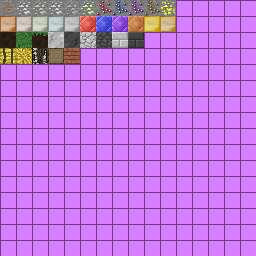
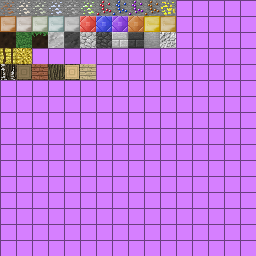
Adding blocks for trees and extras for 0.0.3.

Changed region(s): [[0.0, 0.1875, 0.375, 0.3125], [0.5625, 0.125, 0.6875, 0.1875]]

diff --git a/GNHRM/src/ModBlocks.java b/GNHRM/src/ModBlocks.java
@@ -59,8 +59,12 @@ public class ModBlocks extends Block
 	public static Block currantBranch;
 	public static Block blackberryBranch;
 	public static Block raspberryBranch;
-//	public static Block modWood;
-//	public static Block modPlanks;
+	public static Block cherryWood;
+	public static Block orangeWood;
+	public static Block cherryPlanks;
+	public static Block orangePlanks;
+	public static Block concrete;
+	public static Block granite;
 //	public static Block modSapling;
 //	public static Block modLeaves;
 //	public static Block stairBasalt;
@@ -100,8 +104,10 @@ public class ModBlocks extends Block
 		basaltCobble = new ModBlocks(38, Material.rock).setModCreativeTab().setHardness(2.5F).setResistance(10.0F).setStepSound(soundStoneFootstep).setBlockName("basaltCobble");
 		marble = new ModBlockCustomStone(35, marbleCobble.blockID).setModCreativeTab().setBlockName("marble");
 		basalt = new ModBlockCustomStone(36, basaltCobble.blockID).setModCreativeTab().setBlockName("basalt");
-		marbleBrick = new ModBlocks(39, Material.rock).setModCreativeTab().setHardness(2.0F).setResistance(10.0F).setStepSound(soundStoneFootstep).setBlockName("marbleBrick");
-		basaltBrick = new ModBlocks(40, Material.rock).setModCreativeTab().setHardness(2.0F).setResistance(10.0F).setStepSound(soundStoneFootstep).setBlockName("basaltBrick");
+		marbleBrick = new ModBlocks(39, Material.rock).setModCreativeTab().setHardness(3.0F).setResistance(10.0F).setStepSound(soundStoneFootstep).setBlockName("marbleBrick");
+		basaltBrick = new ModBlocks(40, Material.rock).setModCreativeTab().setHardness(3.0F).setResistance(10.0F).setStepSound(soundStoneFootstep).setBlockName("basaltBrick");
+		concrete = new ModBlocks(41, Material.rock).setModCreativeTab().setHardness(5.0F).setResistance(20.0F).setStepSound(soundStoneFootstep).setBlockName("concrete");
+		granite = new ModBlocks(42, Material.rock).setModCreativeTab().setHardness(1.2F).setResistance(6.0F).setStepSound(soundStoneFootstep).setBlockName("granite");
 		blockCopper = new ModBlocks(16, Material.iron).setModCreativeTab().setHardness(5.0F).setResistance(10.0F).setStepSound(soundMetalFootstep).setBlockName("blockCopper");
 		blockTin = new ModBlocks(17, Material.iron).setModCreativeTab().setHardness(5.0F).setResistance(10.0F).setStepSound(soundMetalFootstep).setBlockName("blockTin");
 		blockAluminium = new ModBlocks(18, Material.iron).setModCreativeTab().setHardness(5.0F).setResistance(10.0F).setStepSound(soundMetalFootstep).setBlockName("blockAluminium");
@@ -113,6 +119,10 @@ public class ModBlocks extends Block
 		blockTopaz = new ModBlocks(24, Material.iron).setModCreativeTab().setHardness(5.0F).setResistance(10.0F).setStepSound(soundMetalFootstep).setBlockName("blockTopaz");
 		blockBrass = new ModBlocks(25, Material.iron).setModCreativeTab().setHardness(5.0F).setResistance(10.0F).setStepSound(soundMetalFootstep).setBlockName("blockBrass");
 		blockBronze = new ModBlocks(26, Material.iron).setModCreativeTab().setHardness(5.0F).setResistance(10.0F).setStepSound(soundMetalFootstep).setBlockName("blockBronze");
+		cherryWood = new ModBlockModLog(64).setModCreativeTab().setBlockName("cherryWood");
+		orangeWood = new ModBlockModLog(67).setModCreativeTab().setBlockName("orangeWood");
+		cherryPlanks = new ModBlocks(66, Material.wood).setModCreativeTab().setHardness(2.0F).setResistance(5.0F).setStepSound(soundWoodFootstep).setBlockName("cherryPlanks").setRequiresSelfNotify();
+		orangePlanks = new ModBlocks(69, Material.wood).setModCreativeTab().setHardness(2.0F).setResistance(5.0F).setStepSound(soundWoodFootstep).setBlockName("orangePlanks").setRequiresSelfNotify();
 		oilFlowing = new ModBlockOilFlowing().setBlockName("oilFlowing");
 		oilStill = new ModBlockOilStill().setBlockName("oilStill");
 		poisonWaterFlowing = new ModBlockPoisonWaterFlowing().setBlockName("poisonWaterFlowing");
@@ -179,6 +189,12 @@ public class ModBlocks extends Block
 		GameRegistry.registerBlock(moss);
 		GameRegistry.registerBlock(marble);
 		GameRegistry.registerBlock(basalt);
+		GameRegistry.registerBlock(marbleCobble);
+		GameRegistry.registerBlock(basaltCobble);
+		GameRegistry.registerBlock(marbleBrick);
+		GameRegistry.registerBlock(basaltBrick);
+		GameRegistry.registerBlock(concrete);
+		GameRegistry.registerBlock(granite);
 		GameRegistry.registerBlock(blockCopper);
 		GameRegistry.registerBlock(blockTin);
 		GameRegistry.registerBlock(blockAluminium);
@@ -190,14 +206,14 @@ public class ModBlocks extends Block
 		GameRegistry.registerBlock(blockTopaz);
 		GameRegistry.registerBlock(blockBrass);
 		GameRegistry.registerBlock(blockBronze);
+		GameRegistry.registerBlock(cherryWood);
+		GameRegistry.registerBlock(orangeWood);
+		GameRegistry.registerBlock(cherryPlanks);
+		GameRegistry.registerBlock(orangePlanks);
 		GameRegistry.registerBlock(oilStill);
 		GameRegistry.registerBlock(oilFlowing);
 		GameRegistry.registerBlock(poisonWaterStill);
 		GameRegistry.registerBlock(poisonWaterFlowing);
-		GameRegistry.registerBlock(marbleCobble);
-		GameRegistry.registerBlock(basaltCobble);
-		GameRegistry.registerBlock(marbleBrick);
-		GameRegistry.registerBlock(basaltBrick);
 		GameRegistry.registerBlock(tallMoss);
 		GameRegistry.registerBlock(ryeCrops);
 		GameRegistry.registerBlock(riceCrops);
@@ -229,6 +245,12 @@ public class ModBlocks extends Block
 		LanguageRegistry.addName(moss, "Moss");
 		LanguageRegistry.addName(marble, "Marble");
 		LanguageRegistry.addName(basalt, "Basalt");
+		LanguageRegistry.addName(marbleCobble, "Cobble Marble");
+		LanguageRegistry.addName(basaltCobble, "Cobble Basalt");
+		LanguageRegistry.addName(marbleBrick, "Marble Brick");
+		LanguageRegistry.addName(basaltBrick, "Basalt Brick");
+		LanguageRegistry.addName(concrete, "Concrete");
+		LanguageRegistry.addName(granite, "Granite");
 		LanguageRegistry.addName(blockCopper, "Block of Copper");
 		LanguageRegistry.addName(blockTin, "Block of Tin");
 		LanguageRegistry.addName(blockAluminium, "Block of Aluminium");
@@ -240,14 +262,14 @@ public class ModBlocks extends Block
 		LanguageRegistry.addName(blockTopaz, "Block of Topaz");
 		LanguageRegistry.addName(blockBrass, "Block of Brass");
 		LanguageRegistry.addName(blockBronze, "Block of Bronze");
+		LanguageRegistry.addName(cherryWood, "Cherry Wood");
+		LanguageRegistry.addName(orangeWood, "Orange Wood");
+		LanguageRegistry.addName(cherryPlanks, "Cherry Wood Planks");
+		LanguageRegistry.addName(orangePlanks, "Orange Wood Planks");
 		LanguageRegistry.addName(oilStill, "Oil (Still)");
 		LanguageRegistry.addName(oilFlowing, "Oil (Flowing)");
 		LanguageRegistry.addName(poisonWaterStill, "Poisonous Water (Still)");
 		LanguageRegistry.addName(poisonWaterFlowing, "Poisonous Water (Flowing)");
-		LanguageRegistry.addName(marbleCobble, "Cobble Marble");
-		LanguageRegistry.addName(basaltCobble, "Cobble Basalt");
-		LanguageRegistry.addName(marbleBrick, "Marble Brick");
-		LanguageRegistry.addName(basaltBrick, "Basalt Brick");
 		LanguageRegistry.addName(tallMoss, "Tall Moss");
 		LanguageRegistry.addName(ryeCrops, "Rye Crops");
 		LanguageRegistry.addName(riceCrops, "Rice Crops");

diff --git a/GNHRM/src/ModBlockModLog.java b/GNHRM/src/ModBlockModLog.java
@@ -1,2 +1,162 @@
-/*
-*/
+package GNHRM.src;
+
+import cpw.mods.fml.relauncher.Side;
+import cpw.mods.fml.relauncher.SideOnly;
+import java.util.List;
+import java.util.Random;
+import net.minecraft.block.material.Material;
+import net.minecraft.block.Block;
+import net.minecraft.creativetab.CreativeTabs;
+import net.minecraft.item.ItemStack;
+import net.minecraft.world.World;
+
+public class ModBlockModLog extends ModBlocks
+{
+    public static final String[] woodType = new String[] {"cherry"};
+
+    protected ModBlockModLog(int texture)
+    {
+        super(texture, Material.wood);
+        this.blockIndexInTexture = texture;
+		this.setHardness(2.0F);
+		this.setStepSound(soundWoodFootstep);
+		this.setRequiresSelfNotify();
+    }
+
+    public int getRenderType()
+    {
+        return 31;
+    }
+
+    public int quantityDropped(Random par1Random)
+    {
+        return 1;
+    }
+
+    public int idDropped(int par1, Random par2Random, int par3)
+    {
+        return Block.wood.blockID;
+    }
+
+    public void breakBlock(World par1World, int par2, int par3, int par4, int par5, int par6)
+    {
+        byte var7 = 4;
+        int var8 = var7 + 1;
+
+        if (par1World.checkChunksExist(par2 - var8, par3 - var8, par4 - var8, par2 + var8, par3 + var8, par4 + var8))
+        {
+            for (int var9 = -var7; var9 <= var7; ++var9)
+            {
+                for (int var10 = -var7; var10 <= var7; ++var10)
+                {
+                    for (int var11 = -var7; var11 <= var7; ++var11)
+                    {
+                        int var12 = par1World.getBlockId(par2 + var9, par3 + var10, par4 + var11);
+
+                        if (Block.blocksList[var12] != null)
+                        {
+                            Block.blocksList[var12].beginLeavesDecay(par1World, par2 + var9, par3 + var10, par4 + var11);
+                        }
+                    }
+                }
+            }
+        }
+    }
+
+    public int func_85104_a(World par1World, int par2, int par3, int par4, int par5, float par6, float par7, float par8, int par9)
+    {
+        int var10 = par9 & 3;
+        byte var11 = 0;
+
+        switch (par5)
+        {
+            case 0:
+            case 1:
+                var11 = 0;
+                break;
+            case 2:
+            case 3:
+                var11 = 8;
+                break;
+            case 4:
+            case 5:
+                var11 = 4;
+        }
+
+        return var10 | var11;
+    }
+
+    public int getBlockTextureFromSideAndMetadata(int par1, int par2)
+    {
+	    int var3 = par2 & 12;
+        switch(var3)
+		{
+		    case 0:
+			    switch(par1)
+				{
+				    case 0:
+					    return this.blockIndexInTexture + 1;
+					case 1:
+					    return this.blockIndexInTexture + 1;
+					default:
+					    return this.blockIndexInTexture;
+				}
+		    case 4:
+			    switch(par1)
+				{
+				    case 4:
+					    return this.blockIndexInTexture + 1;
+					case 5:
+					    return this.blockIndexInTexture + 1;
+					default:
+					    return this.blockIndexInTexture;
+				}
+		    case 8:
+			    switch(par1)
+				{
+				    case 2:
+					    return this.blockIndexInTexture + 1;
+					case 3:
+					    return this.blockIndexInTexture + 1;
+					default:
+					    return this.blockIndexInTexture;
+				}
+			default: 
+			    return 0;
+		}
+    } // 64, 65
+
+    public int damageDropped(int par1)
+    {
+        return par1 & 1;
+    }
+
+    public static int limitToValidMetadata(int par0)
+    {
+        return par0 & 1;
+    }
+
+    @SideOnly(Side.CLIENT)
+
+    public void getSubBlocks(int par1, CreativeTabs par2CreativeTabs, List par3List)
+    {
+        par3List.add(new ItemStack(par1, 1, 0));
+    }
+
+    protected ItemStack createStackedBlock(int par1)
+    {
+        return new ItemStack(this.blockID, 1, limitToValidMetadata(par1));
+    }
+
+    @Override
+    public boolean canSustainLeaves(World world, int x, int y, int z)
+    {
+        return true;
+    }
+
+    @Override
+    public boolean isWood(World world, int x, int y, int z)
+    {
+        return true;
+    }
+}

diff --git a/GNHRM/src/ModWorldOreGenerator.java b/GNHRM/src/ModWorldOreGenerator.java
@@ -27,12 +27,21 @@ public class ModWorldOreGenerator
 		genOre(ModBlocks.oreSilver.blockID, 8, 8, world, random, blockX + random.nextInt(16), random.nextInt(48), blockZ + random.nextInt(16));
 		genOre(ModBlocks.oreSulphur.blockID, 6, 8, world, random, blockX + random.nextInt(16), (8 + random.nextInt(16)), blockZ + random.nextInt(16));
 		genOre(ModBlocks.oreUranium.blockID, 7, 2, world, random, blockX + random.nextInt(16), (16 + random.nextInt(32)), blockZ + random.nextInt(16));
-		if(chunkBiome.biomeID == BiomeGenBase.extremeHills.biomeID)
+		if(chunkBiome.biomeID == BiomeGenBase.ocean.biomeID)
 		{
-			genOre(ModBlocks.oreRuby.blockID, 1, (3 + random.nextInt(6)), world, random, blockX + random.nextInt(16), random.nextInt(32), blockZ + random.nextInt(16));
-			genOre(ModBlocks.oreSapphire.blockID, 1, (3 + random.nextInt(6)), world, random, blockX + random.nextInt(16), random.nextInt(32), blockZ + random.nextInt(16));
-			genOre(ModBlocks.oreAmethyst.blockID, 1, (3 + random.nextInt(6)), world, random, blockX + random.nextInt(16), random.nextInt(32), blockZ + random.nextInt(16));
+		    genOre(ModBlocks.oreSapphire.blockID, 1, (3 + random.nextInt(6)), world, random, blockX + random.nextInt(16), random.nextInt(32), blockZ + random.nextInt(16));
+		}
+		else if(chunkBiome.biomeID == BiomeGenBase.desert.biomeID)
+		{
+		    genOre(ModBlocks.oreRuby.blockID, 1, (3 + random.nextInt(6)), world, random, blockX + random.nextInt(16), random.nextInt(32), blockZ + random.nextInt(16));
+        }
+		else if(chunkBiome.biomeID == BiomeGenBase.jungle.biomeID)
+		{
 			genOre(ModBlocks.oreTopaz.blockID, 1, (3 + random.nextInt(6)), world, random, blockX + random.nextInt(16), random.nextInt(32), blockZ + random.nextInt(16));
+		}
+		else if(chunkBiome.biomeID == BiomeGenBase.icePlains.biomeID)
+		{
+		    genOre(ModBlocks.oreAmethyst.blockID, 1, (3 + random.nextInt(6)), world, random, blockX + random.nextInt(16), random.nextInt(32), blockZ + random.nextInt(16));
 		}
 	}
 }

diff --git a/GNHRM/src/ModBlockModOre.java b/GNHRM/src/ModBlockModOre.java
@@ -20,19 +20,33 @@ public class ModBlockModOre extends ModBlocks
 	public int idDropped(int par1, Random par2Random, int par3)
     {
 		if(this.blockID == ModBlocks.oreUranium.blockID)
-			return ModItems.uranium.shiftedIndex;
+		{
+		   	return ModItems.uranium.shiftedIndex;
+		}
 		else if(this.blockID == ModBlocks.oreRuby.blockID)
-			return ModItems.ruby.shiftedIndex;
+		{
+		    return ModItems.ruby.shiftedIndex;
+		}
 		else if(this.blockID == ModBlocks.oreSapphire.blockID)
-			return ModItems.sapphire.shiftedIndex;
+		{
+		    return ModItems.sapphire.shiftedIndex;
+		}
 		else if(this.blockID == ModBlocks.oreAmethyst.blockID)
-			return ModItems.amethyst.shiftedIndex;
+		{
+		    return ModItems.amethyst.shiftedIndex;
+		}
 		else if(this.blockID == ModBlocks.oreTopaz.blockID)
-			return ModItems.topaz.shiftedIndex;
+		{
+		    return ModItems.topaz.shiftedIndex;
+		}
 		else if(this.blockID == ModBlocks.oreSulphur.blockID)
-			return ModItems.sulphur.shiftedIndex;
+		{
+		    return ModItems.sulphur.shiftedIndex;
+		}
 		else
+		{
 			return this.blockID;
+		}
     }
 	
 	@Override

diff --git a/GNHRM/src/ModRecipes.java b/GNHRM/src/ModRecipes.java
@@ -19,6 +19,8 @@ public class ModRecipes
 		GameRegistry.addShapelessRecipe(new ItemStack(ModBlocks.moss, 1), new ItemStack(ModBlocks.tallMoss, 3), ModBlocks.mud);
 		GameRegistry.addShapelessRecipe(new ItemStack(Block.stoneBrick, 1, 1), new ItemStack(ModBlocks.tallMoss, 3), new ItemStack(Block.stoneBrick, 1, 0));
 		GameRegistry.addShapelessRecipe(new ItemStack(Block.cobblestoneMossy, 1), new ItemStack(ModBlocks.tallMoss, 3), Block.cobblestone);
+		GameRegistry.addShapelessRecipe(new ItemStack(ModBlocks.cherryPlanks, 4), ModBlocks.cherryWood);
+		GameRegistry.addShapelessRecipe(new ItemStack(ModBlocks.orangePlanks, 4), ModBlocks.orangeWood);
 	}
 	
 	public static void initShapedCraftingRecipes()

diff --git a/GNHRM/src/ModMiningDecoGenerator.java b/GNHRM/src/ModMiningDecoGenerator.java
@@ -31,6 +31,7 @@ public class ModMiningDecoGenerator
 			}
 		}
 		genDeco(ModBlocks.marble.blockID, 48, 10, world, random, blockX + random.nextInt(16), random.nextInt(128), blockZ + random.nextInt(16));
+		genDeco(ModBlocks.granite.blockID, 36, 8, world, random, blockX + random.nextInt(16), random.nextInt(128), blockZ + random.nextInt(16));
 		genDeco(ModBlocks.mud.blockID, 32, mudAmount, world, random, blockX + random.nextInt(16), random.nextInt(128), blockZ + random.nextInt(16));
 	}
 	

diff --git a/GNHRM/GNHRM.java b/GNHRM/GNHRM.java
@@ -16,7 +16,7 @@ import GNHRM.src.ModEnumToolMaterial;
 import GNHRM.src.ModGenerator;
 import GNHRM.src.ModDungeonLoot;
 
-@Mod(modid="GreenNekoHaunt_GNHRM", name="GNH's Real Mod", version="0.0.2")
+@Mod(modid="GreenNekoHaunt_GNHRM", name="GNH's Real Mod", version="0.0.3")
 @NetworkMod(clientSideRequired = true, serverSideRequired = false)
 public class GNHRM 
 {

diff --git a/GNHRM/src/ModBlockModLeaves.java b/GNHRM/src/ModBlockModLeaves.java
@@ -1,2 +1,2 @@
-/*
+/*package GNHRM.src;
 */
